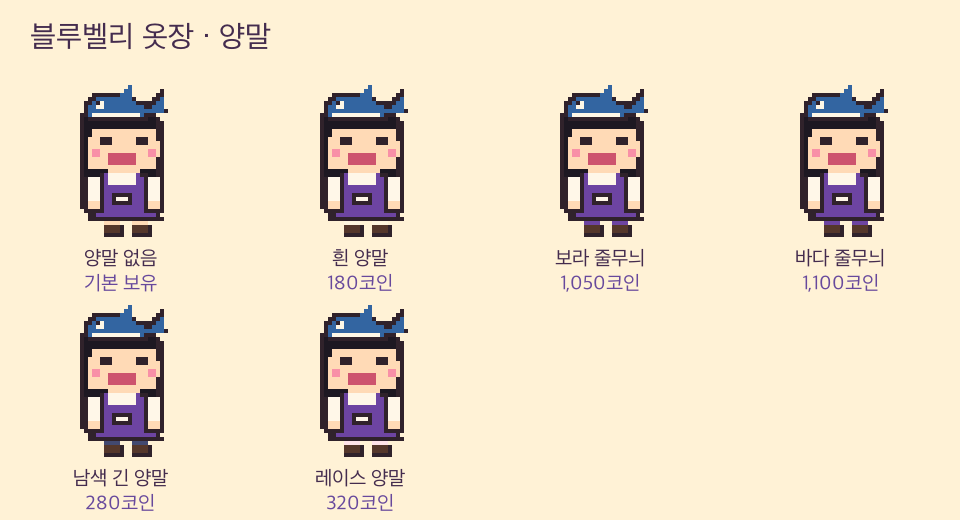
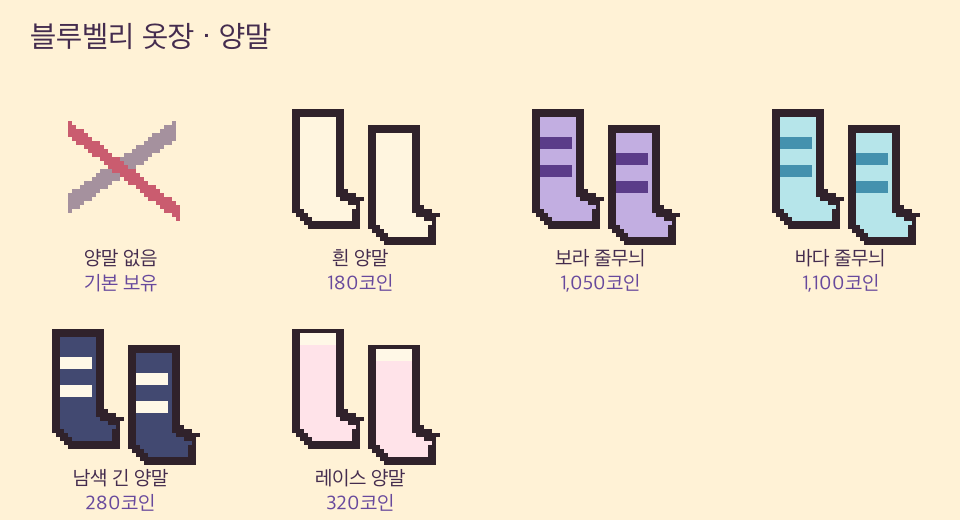
changed function

diff --git a/dressup.py b/dressup.py
@@ -4,7 +4,7 @@ Compose only when a look changes, then reuse its walking frames during play.
 The original photo-derived character remains available through reset.
 """
 import pygame
-from wardrobe_catalog import DEFAULT_LOOK, OUTFITS, SHOES, HAIR_COLORS, SOCKS
+from wardrobe_catalog import DEFAULT_LOOK, HEADBANDS, OUTFITS, SHOES, HAIR_COLORS, SOCKS
 
 INK = (48, 34, 43)
 SKIN = (255, 218, 182)
@@ -178,3 +178,175 @@ def character_surface(appearance, direction="down", step=0, scale=3):
 def build_frames(appearance):
     return {direction: [character_surface(appearance, direction, step) for step in range(3)]
             for direction in ("down", "left", "right", "up")}
+
+
+def product_surface(category, key, scale=2):
+    """Draw a shop product without a character/mannequin behind it."""
+    c = pygame.Surface((48, 40), pygame.SRCALPHA)
+
+    def rect(color, x, y, w, h):
+        pygame.draw.rect(c, color, (x, y, w, h))
+
+    def line(color, start, end, width=1):
+        pygame.draw.line(c, color, start, end, width)
+
+    def poly(color, points):
+        pygame.draw.polygon(c, color, points)
+
+    def framed(color, x, y, w, h):
+        rect(INK, x, y, w, h)
+        if w > 2 and h > 2:
+            rect(color, x + 1, y + 1, w - 2, h - 2)
+
+    def berry(x, y):
+        rect((48, 38, 99), x, y, 5, 5)
+        rect((145, 119, 215), x + 1, y + 1, 2, 2)
+
+    if category == "outfit":
+        _label, cloth, trim, style = OUTFITS[key]
+        # Wooden hanger and a floating garment: there is deliberately no body.
+        line((151, 103, 71), (24, 3), (24, 7), 2)
+        pygame.draw.arc(c, (151, 103, 71), (21, 1, 7, 7), 0.1, 3.8, 2)
+        line((151, 103, 71), (24, 7), (9, 13), 2)
+        line((151, 103, 71), (24, 7), (39, 13), 2)
+        poly(INK, [(14, 10), (21, 9), (24, 13), (27, 9), (34, 10), (41, 19),
+                   (35, 23), (33, 18), (34, 35), (14, 35), (15, 18), (13, 23), (7, 19)])
+        poly(trim, [(15, 11), (21, 10), (24, 14), (27, 10), (33, 11), (39, 19),
+                    (35, 21), (32, 16), (33, 34), (15, 34), (16, 16), (13, 21), (9, 19)])
+        if style in ("shorts", "overalls", "pajamas", "sailor"):
+            rect(cloth, 16, 18, 16, 13)
+            rect(INK, 23, 29, 2, 6)
+        else:
+            poly(cloth, [(16, 17), (32, 17), (32, 25), (36, 34), (12, 34), (16, 25)])
+        if style in ("dress", "shorts", "overalls"):
+            rect(trim, 17, 15, 14, 4)
+            rect(cloth, 18, 12, 3, 10)
+            rect(cloth, 27, 12, 3, 10)
+            framed(trim, 20, 24, 8, 6)
+        elif style == "berry":
+            poly((104, 159, 82), [(16, 17), (23, 19), (18, 22)])
+            poly((142, 190, 111), [(32, 17), (25, 19), (30, 22)])
+            for x, y in ((16, 26), (23, 22), (28, 28)):
+                berry(x, y)
+        elif style == "sailor":
+            poly((35, 72, 127), [(16, 14), (24, 21), (32, 14), (29, 23), (19, 23)])
+            rect(trim, 16, 30, 16, 2)
+            poly(trim, [(21, 24), (27, 24), (30, 28), (27, 30), (24, 27), (21, 30), (18, 28)])
+        elif style == "check":
+            for y in (21, 27, 32):
+                for x in (15, 21, 27, 33):
+                    rect(trim, x, y, 3, 3)
+        elif style == "apron":
+            framed(trim, 18, 18, 12, 16)
+            rect((233, 177, 48), 21, 24, 7, 6)
+            rect(WHITE, 20, 22, 3, 2)
+            rect(WHITE, 27, 22, 3, 2)
+        elif style in ("cardigan", "coat", "blouse"):
+            rect(trim, 21, 14, 7, 18)
+            rect(cloth, 23, 16, 2, 18)
+            for y in (19, 24, 29):
+                rect((240, 193, 93), 26, y, 2, 2)
+            if style == "coat":
+                poly(trim, [(16, 15), (23, 21), (19, 23)])
+                poly(trim, [(32, 15), (25, 21), (29, 23)])
+            elif style == "blouse":
+                rect(trim, 15, 29, 18, 5)
+        elif style == "pajamas":
+            for x, y in ((17, 20), (26, 26)):
+                rect(trim, x, y, 5, 3)
+                rect(trim, x + 1, y - 1, 3, 1)
+        elif style == "party":
+            rect(trim, 13, 31, 22, 3)
+            poly(trim, [(16, 24), (23, 27), (16, 30)])
+            poly(trim, [(32, 24), (25, 27), (32, 30)])
+
+    elif category == "headband":
+        if key == "none":
+            pygame.draw.arc(c, (165, 145, 158), (8, 10, 32, 22), 0.1, 3.05, 4)
+            line((202, 92, 111), (11, 31), (38, 7), 4)
+        elif key in ("shark", "whale"):
+            color = (51, 101, 161) if key == "shark" else (60, 151, 199)
+            poly(INK, [(6, 23), (10, 12), (28, 10), (36, 18), (43, 8), (44, 24), (34, 29), (10, 29)])
+            poly(color, [(9, 22), (12, 14), (28, 13), (36, 21), (41, 14), (41, 22), (33, 26), (10, 26)])
+            rect(WHITE, 11, 25, 22, 3)
+            rect(WHITE, 14, 17, 4, 4)
+            rect(INK, 15, 17, 2, 2)
+            if key == "shark":
+                poly(color, [(22, 13), (28, 4), (30, 15)])
+            else:
+                rect((171, 229, 239), 24, 5, 2, 7)
+                line((171, 229, 239), (18, 5), (31, 5), 2)
+        else:
+            pygame.draw.arc(c, (104, 77, 103), (8, 12, 32, 20), 0.05, 3.1, 4)
+            if key == "blueberry":
+                for x, y in ((16, 11), (23, 8), (27, 13)):
+                    berry(x, y)
+                poly((106, 160, 83), [(25, 10), (31, 4), (35, 7), (29, 12)])
+            elif key == "ribbon":
+                poly((220, 134, 171), [(13, 8), (24, 14), (12, 21)])
+                poly((244, 171, 192), [(35, 8), (24, 14), (36, 21)])
+                rect(WHITE, 21, 12, 6, 5)
+            elif key == "flowers":
+                for x, color in ((14, (245, 187, 194)), (24, WHITE), (34, (194, 174, 225))):
+                    for dx, dy in ((-3, 0), (3, 0), (0, -3), (0, 3)):
+                        rect(color, x + dx, 13 + dy, 4, 4)
+                    rect((238, 187, 86), x, 13, 3, 3)
+            elif key == "star":
+                poly((243, 198, 88), [(24, 5), (27, 11), (35, 11), (29, 16),
+                                      (31, 24), (24, 19), (17, 24), (19, 16), (13, 11), (21, 11)])
+
+    elif category == "shoes":
+        color = SHOES[key][1]
+        boots = key == "boots"
+        for x in (7, 26):
+            if boots:
+                framed(color, x + 3, 8, 11, 22)
+                framed(color, x, 26, 16, 9)
+            else:
+                poly(INK, [(x + 2, 20), (x + 12, 20), (x + 14, 26), (x + 17, 29),
+                           (x + 16, 34), (x, 34), (x, 27)])
+                poly(color, [(x + 3, 22), (x + 11, 22), (x + 12, 27), (x + 15, 29),
+                             (x + 14, 32), (x + 2, 32), (x + 2, 28)])
+                if key in ("white", "whale"):
+                    rect(WHITE, x + 2, 30, 13, 3)
+                if key == "blueberry":
+                    berry(x + 5, 23)
+                elif key == "whale":
+                    line((205, 241, 242), (x + 3, 27), (x + 13, 27), 2)
+                else:
+                    for y in (24, 27):
+                        line(WHITE, (x + 5, y), (x + 11, y), 1)
+
+    elif category == "hair":
+        color = HAIR_COLORS[key][1]
+        # A dye bottle and tint brush communicate colour without drawing a head.
+        framed(color, 9, 11, 22, 25)
+        framed((225, 211, 228), 13, 6, 14, 7)
+        rect(WHITE, 13, 22, 14, 7)
+        rect(color, 16, 24, 8, 3)
+        line(INK, (37, 7), (31, 34), 4)
+        line(color, (40, 8), (36, 20), 6)
+        line(tuple(min(255, value + 30) for value in color), (14, 15), (25, 15), 2)
+
+    elif category == "socks":
+        if key == "none":
+            line((165, 145, 158), (11, 29), (37, 11), 5)
+            line((202, 92, 111), (11, 10), (38, 31), 4)
+        else:
+            color = SOCKS[key][1]
+            for x, drop in ((7, 0), (26, 4)):
+                poly(INK, [(x, 6 + drop), (x + 12, 6 + drop), (x + 12, 25 + drop),
+                           (x + 17, 28 + drop), (x + 16, 35 + drop), (x + 4, 35 + drop),
+                           (x, 30 + drop)])
+                poly(color, [(x + 2, 8 + drop), (x + 10, 8 + drop), (x + 10, 27 + drop),
+                             (x + 15, 30 + drop), (x + 14, 33 + drop), (x + 5, 33 + drop),
+                             (x + 2, 29 + drop)])
+                if key in ("blueberry", "whale", "navy"):
+                    stripe = (91, 60, 137) if key == "blueberry" else ((68, 145, 174) if key == "whale" else WHITE)
+                    rect(stripe, x + 2, 13 + drop, 8, 3)
+                    rect(stripe, x + 2, 20 + drop, 8, 3)
+                elif key == "lace":
+                    for dx in (2, 5, 8):
+                        rect(WHITE, x + dx, 7 + drop, 3, 3)
+
+    return pygame.transform.scale(c, (48 * scale, 40 * scale))

diff --git a/wardrobe_ui.py b/wardrobe_ui.py
@@ -1,6 +1,6 @@
 """Wardrobe screen and controls, shared with the game's live character renderer."""
 import pygame
-from dressup import character_surface
+from dressup import product_surface
 from wardrobe_catalog import CATEGORIES, OPTIONS, DEFAULT_LOOK, option_label, cosmetic_price, theme_price
 
 INK = (55, 39, 69)
@@ -118,12 +118,13 @@ class WardrobeUI:
             owned = self.state.owns_cosmetic(self.wardrobe_category, key)
             pygame.draw.rect(self.screen, (223, 236, 201) if selected else (250, 229, 192), rect, border_radius=8)
             pygame.draw.rect(self.screen, PURPLE if selected else (185, 150, 109), rect, 3 if selected else 1, border_radius=8)
-            preview = {**look, self.wardrobe_category: key}
-            cache_key = tuple(sorted(preview.items()))
+            cache_key = (self.wardrobe_category, key)
             if cache_key not in self.wardrobe_thumbnails:
                 if len(self.wardrobe_thumbnails) >= 128:
                     self.wardrobe_thumbnails.clear()
-                self.wardrobe_thumbnails[cache_key] = character_surface(preview, scale=2)
+                self.wardrobe_thumbnails[cache_key] = product_surface(
+                    self.wardrobe_category, key, scale=2
+                )
             thumbnail = self.wardrobe_thumbnails[cache_key]
             self.screen.blit(thumbnail, thumbnail.get_rect(center=(rect.centerx, rect.y + 46)))
             self.text(option_label(self.wardrobe_category, key), 14, INK, rect.centerx, rect.y + 91, center=True)

diff --git a/tests/test_wardrobe.py b/tests/test_wardrobe.py
@@ -10,7 +10,7 @@ os.environ.setdefault("SDL_AUDIODRIVER", "dummy")
 sys.path.insert(0, str(Path(__file__).resolve().parents[1]))
 import pygame
 from game_state import GameState
-from dressup import build_frames, character_surface
+from dressup import SKIN, build_frames, character_surface, product_surface
 from wardrobe_catalog import (
     COSMETIC_PRICES,
     DEFAULT_LOOK,
@@ -152,3 +152,14 @@ class WardrobeTests(unittest.TestCase):
                 if key != DEFAULT_LOOK[category]:
                     alternate = character_surface({category: key})
                     self.assertTrue(base != pygame.image.tostring(alternate, "RGBA"), (category, key))
+
+    def test_store_cards_show_products_without_character_bodies(self):
+        for category, options in OPTIONS.items():
+            products = []
+            for key in options:
+                icon = product_surface(category, key)
+                self.assertEqual(icon.get_size(), (96, 80))
+                self.assertGreater(icon.get_bounding_rect().width, 0)
+                self.assertNotIn(SKIN, {icon.get_at((x, y))[:3] for x in range(icon.get_width()) for y in range(icon.get_height())})
+                products.append(pygame.image.tostring(icon, "RGBA"))
+            self.assertEqual(len(products), len(set(products)), category)

diff --git a/assets/generate_wardrobe_assets.py b/assets/generate_wardrobe_assets.py
@@ -7,7 +7,7 @@ os.environ.setdefault("SDL_VIDEODRIVER", "dummy")
 os.environ.setdefault("SDL_AUDIODRIVER", "dummy")
 import pygame
 sys.path.insert(0, str(Path(__file__).resolve().parents[1]))
-from dressup import build_frames, character_surface
+from dressup import build_frames, character_surface, product_surface
 from wardrobe_catalog import DEFAULT_LOOK, OUTFITS, OPTIONS, CATEGORIES, THEME_SETS, cosmetic_price, option_label
 
 
@@ -30,7 +30,7 @@ def export():
             look = {**DEFAULT_LOOK, category: key}
             if category == "outfit":
                 look.update(THEME_SETS.get(key, {}))
-            sprite = character_surface(look, scale=4)
+            sprite = product_surface(category, key, scale=4)
             center = (120 + (i % 4) * 240, 165 + (i // 4) * 220)
             sheet.blit(sprite, sprite.get_rect(center=center))
             label = font.render(option_label(category, key), True, (68, 44, 78))

diff --git a/assets/wardrobe/README.md b/assets/wardrobe/README.md
@@ -17,7 +17,7 @@
 
 ## 디자인 파일
 
-- `catalogue_outfit.png`: 12종 의상 전체 보기
+- `catalogue_outfit.png`: 캐릭터 없이 12종 의상 상품만 전체 보기
 - `catalogue_headband.png`, `catalogue_shoes.png`, `catalogue_hair.png`, `catalogue_socks.png`: 부위별 보기
 - `outfit_*.png`: 투명 배경 4방향 × 3프레임 시트 (한 프레임 96×120)
 - 행 순서: 정면, 왼쪽, 오른쪽, 뒤 / 열 순서: 기본, 걷기 1, 걷기 2
@@ -25,6 +25,8 @@
 
 기존 게임의 픽셀 외곽선, 긴 머리와 웃는 얼굴을 바탕으로 코드로 디자인했습니다.
 게임은 `dressup.py`에서 부위를 합성하고 옷을 바꿀 때만 걷기 프레임을 생성합니다.
+게임 옷장 오른쪽 상품 카드와 `catalogue_*.png`에는 캐릭터 없이 해당 제품만 표시됩니다.
+왼쪽 거울과 `outfit_*.png`에는 착용한 캐릭터의 전체 모습이 표시됩니다.
 이 폴더의 PNG는 같은 렌더러로 만든 디자인 확인·재사용용 출력물입니다.
 PNG를 직접 편집하면 게임에 자동 반영되지는 않으며 렌더러를 수정해야 합니다.
 `python3 assets/generate_wardrobe_assets.py`로 전체 PNG를 재생성할 수 있습니다.
